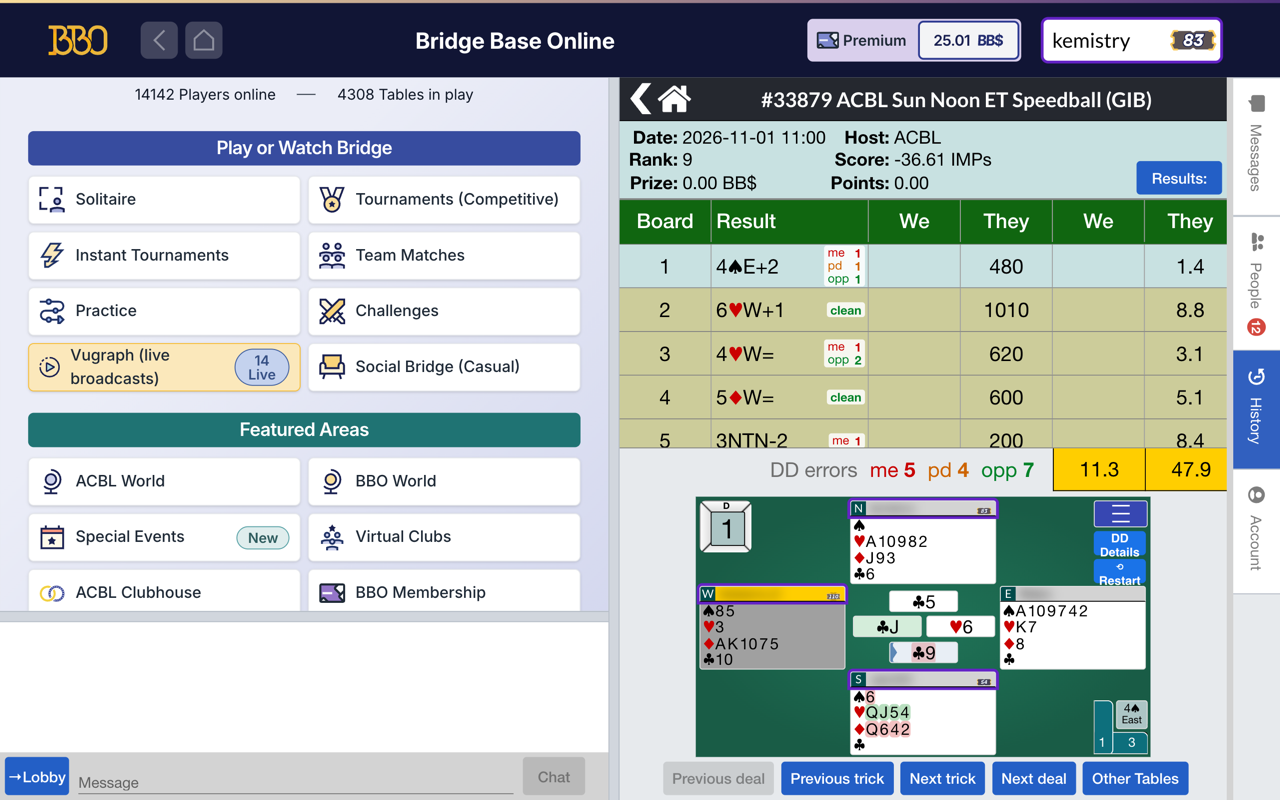
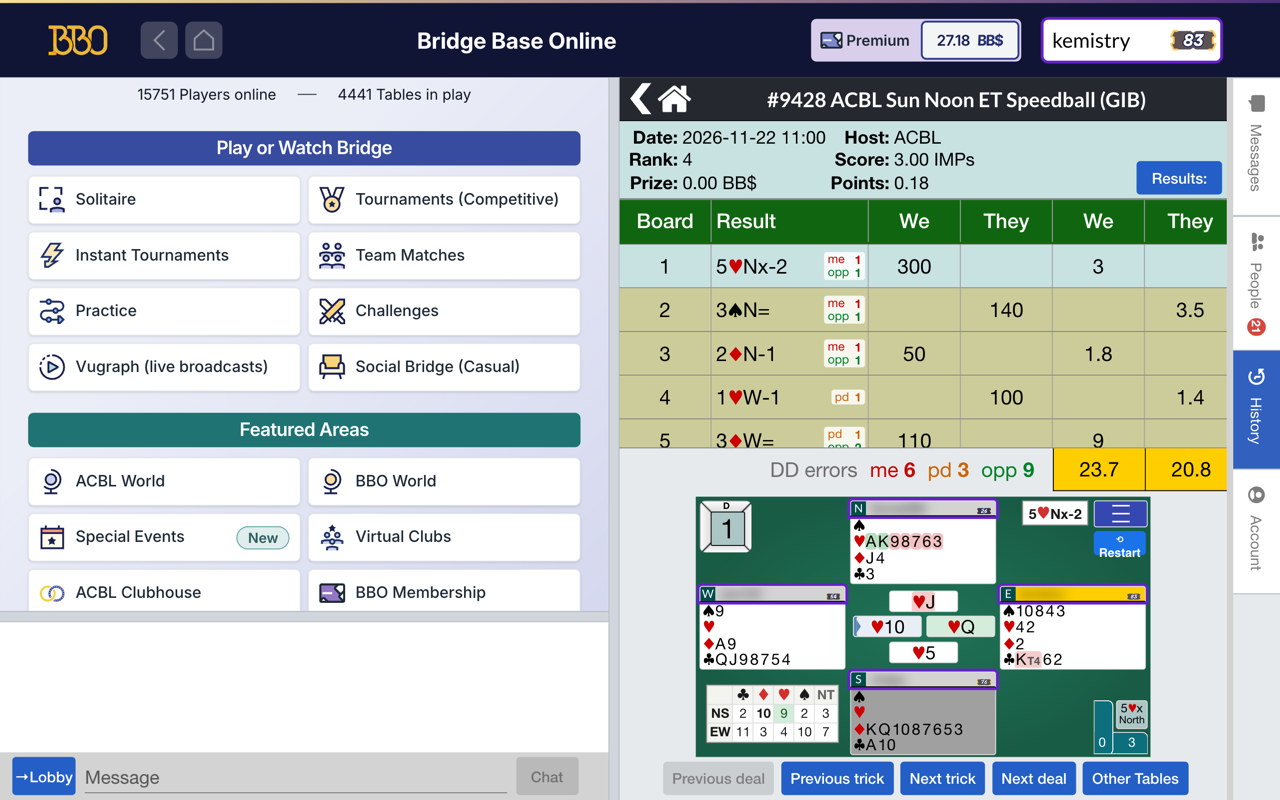
DD page: live My Table and the double-dummy table, with the screenshots retaken
Claude-Session: https://claude.ai/code/session_01Mg21omkakk3tjN8hDB4ZeD

diff --git a/site/dd/index.html b/site/dd/index.html
@@ -49,11 +49,15 @@ figcaption{font-size:13px;color:var(--color-text-secondary);margin-top:6px;line-
     <h1>Bridge Craftwork DD</h1>
     <p class="lede">See where the tricks went. A browser extension that adds double-dummy review to the History panel of Bridge Base Online&#8217;s web client.</p>
 
+    <h2>While you play</h2>
+    <p>Each board is analysed as it ends, so My Table in BBO&#8217;s History is already tagged when you look: pairs and teams events, instant tournaments and robot daylongs.</p>
+
     <h2>For every board you open</h2>
     <ul>
       <li>The cards that cost a trick are marked in the hands, with the trick they were played to.</li>
       <li>Click one and the viewer steps to that trick. The hand that erred shows what it should have played: the best cards in green, the rest in red.</li>
       <li>The card that led and the card that won each trick are marked on the table.</li>
+      <li>A double-dummy table shows what every seat can make in every strain, with the contract played in green and the par contracts in bold. The result at the table sits beside the deal.</li>
       <li>Each board in the list is tagged with the errors by you, your partner and the opponents, or &#8220;clean&#8221;. The event&#8217;s totals sit beside BBO&#8217;s own score.</li>
       <li>DD Details opens the board in the detailed double-dummy viewer, by way of Bridge Classroom.</li>
     </ul>
@@ -80,8 +84,8 @@ figcaption{font-size:13px;color:var(--color-text-secondary);margin-top:6px;line-
 
   <div>
     <figure>
-      <img src="screenshots/dd-1-event.png" width="1280" height="800" alt="BBO's History panel with error tags on each board, event totals in the footer, and error cards marked in the hands">
-      <figcaption>Every board tagged, the event totalled, the error cards marked.</figcaption>
+      <img src="screenshots/dd-1-event.png" width="1280" height="800" alt="BBO's History panel with error tags on each board, event totals in the footer, error cards marked in the hands, and a double-dummy table with the contract in green and par in bold">
+      <figcaption>Every board tagged, the event totalled, the error cards marked, and the double-dummy table.</figcaption>
     </figure>
     <figure>
       <img src="screenshots/dd-4-tallies.png" width="1280" height="800" loading="lazy" alt="BBO's Recent tournaments list with a DD column showing each event's errors as me-partner-opponents">
